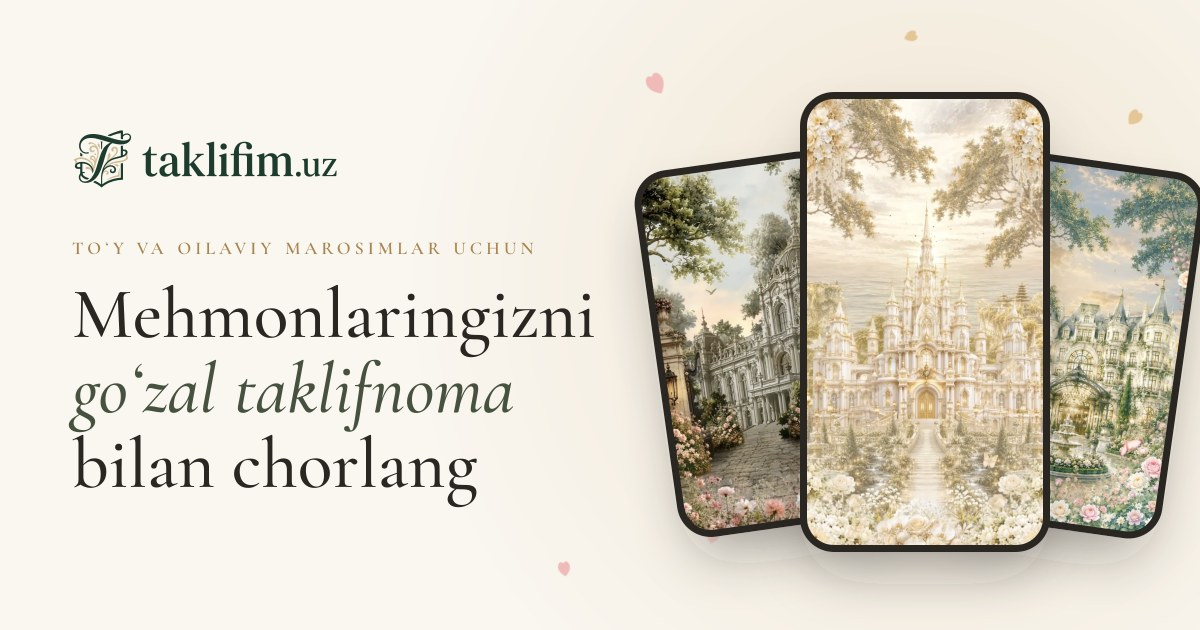
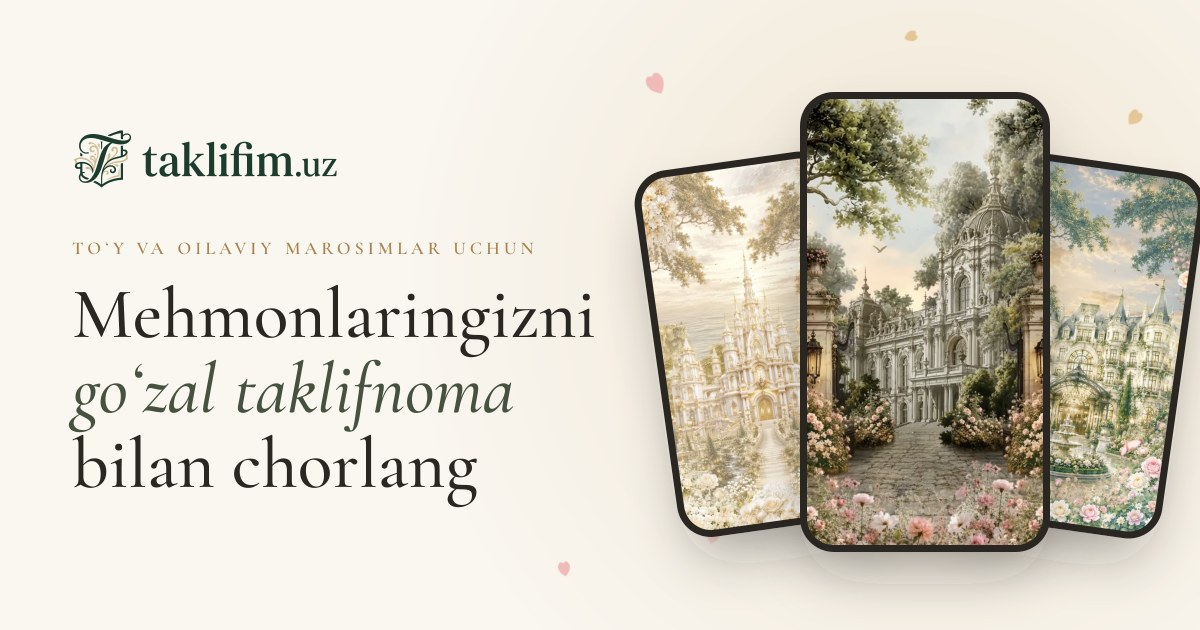
Keep the cottage picture for invitation links, haven in the middle phone
The phone card is the site pages' preview only: invitation links (plain,
named guest and preview) now use og-invitation.jpg, the previous og.jpg,
via INVITATION_OG_IMAGES. The card's middle phone shows haven, with aurora
left and arcade right.

Claude-Session: https://claude.ai/code/session_01T3fffokBwGv9eVQagQeVdx

Changed region(s): [[0.5242, 0.1508, 0.8942, 0.8746]]

diff --git a/frontend/src/app/[locale]/taklif/[slug]/invitation-metadata.ts b/frontend/src/app/[locale]/taklif/[slug]/invitation-metadata.ts
@@ -2,12 +2,13 @@ import type { Metadata } from "next";
 import { getTranslations } from "next-intl/server";
 import type { PublicTaklif } from "@/lib/api-types";
 import { coupleNames } from "@/lib/format";
-import { OG_IMAGES } from "@/lib/seo";
+import { INVITATION_OG_IMAGES } from "@/lib/seo";
 import { tashkentParts } from "@/lib/tashkent-date";
 
 /**
  * Title and description for link previews in Telegram and other messengers
- * (the image is the site's shared og.jpg). Not indexed: invitations are private.
+ * (the image is the shared og-invitation.jpg, not the site's og.jpg). Not
+ * indexed: invitations are private.
  */
 export async function invitationMetadata(
   taklif: PublicTaklif,
@@ -31,8 +32,8 @@ export async function invitationMetadata(
       description,
       type: "website",
       siteName: "taklifim.uz",
-      images: OG_IMAGES,
+      images: INVITATION_OG_IMAGES,
     },
-    twitter: { card: "summary_large_image", images: OG_IMAGES },
+    twitter: { card: "summary_large_image", images: INVITATION_OG_IMAGES },
   };
 }

diff --git a/frontend/src/lib/seo.ts b/frontend/src/lib/seo.ts
@@ -43,9 +43,22 @@ export function localeAlternates(
 }
 
 /**
- * The one link preview image every page shares (public/og.jpg), with no text
- * on it. Bump ?v= when the file changes so messengers fetch the new one.
+ * The link preview image every site page shares (public/og.jpg). Bump ?v=
+ * when the file changes so messengers fetch the new one.
  */
 export const OG_IMAGES = [
   { url: "/og.jpg?v=4", width: 1200, height: 630, alt: "taklifim.uz" },
+];
+
+/**
+ * The preview image of every invitation link (public/og-invitation.jpg), with
+ * no text on it; the site's og.jpg is for the site's own pages only.
+ */
+export const INVITATION_OG_IMAGES = [
+  {
+    url: "/og-invitation.jpg?v=1",
+    width: 1200,
+    height: 630,
+    alt: "taklifim.uz",
+  },
 ];
